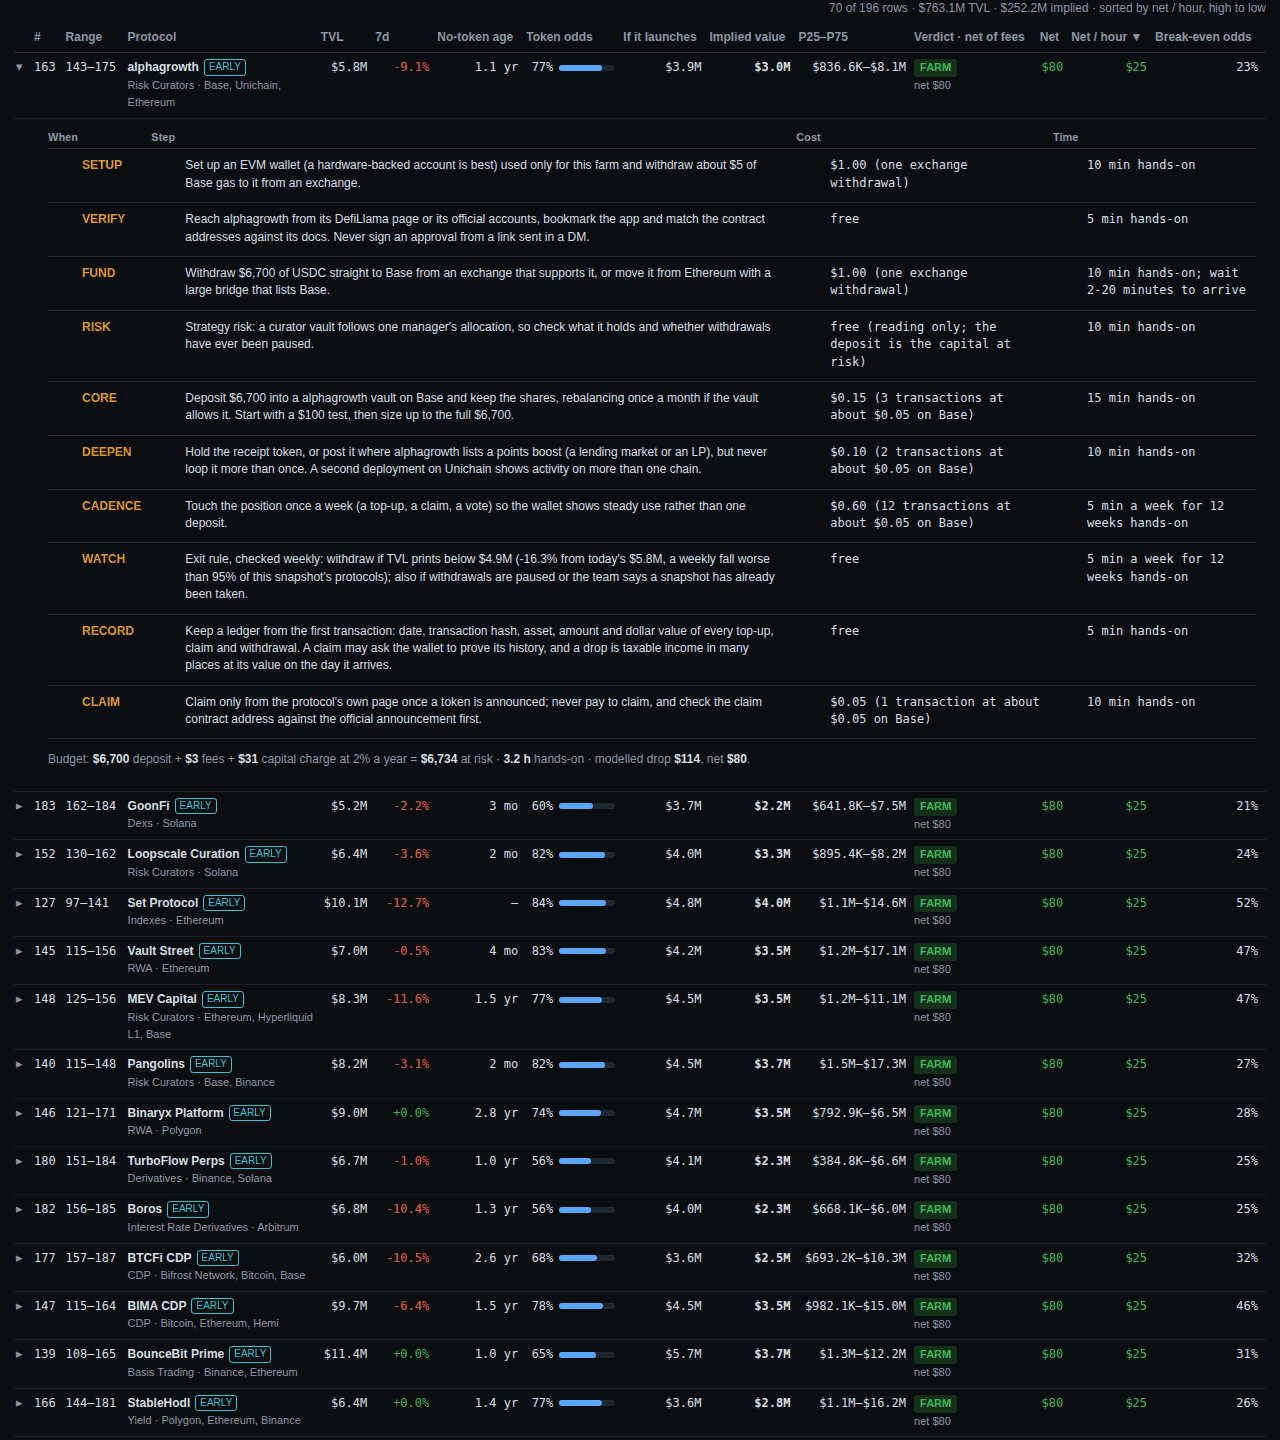
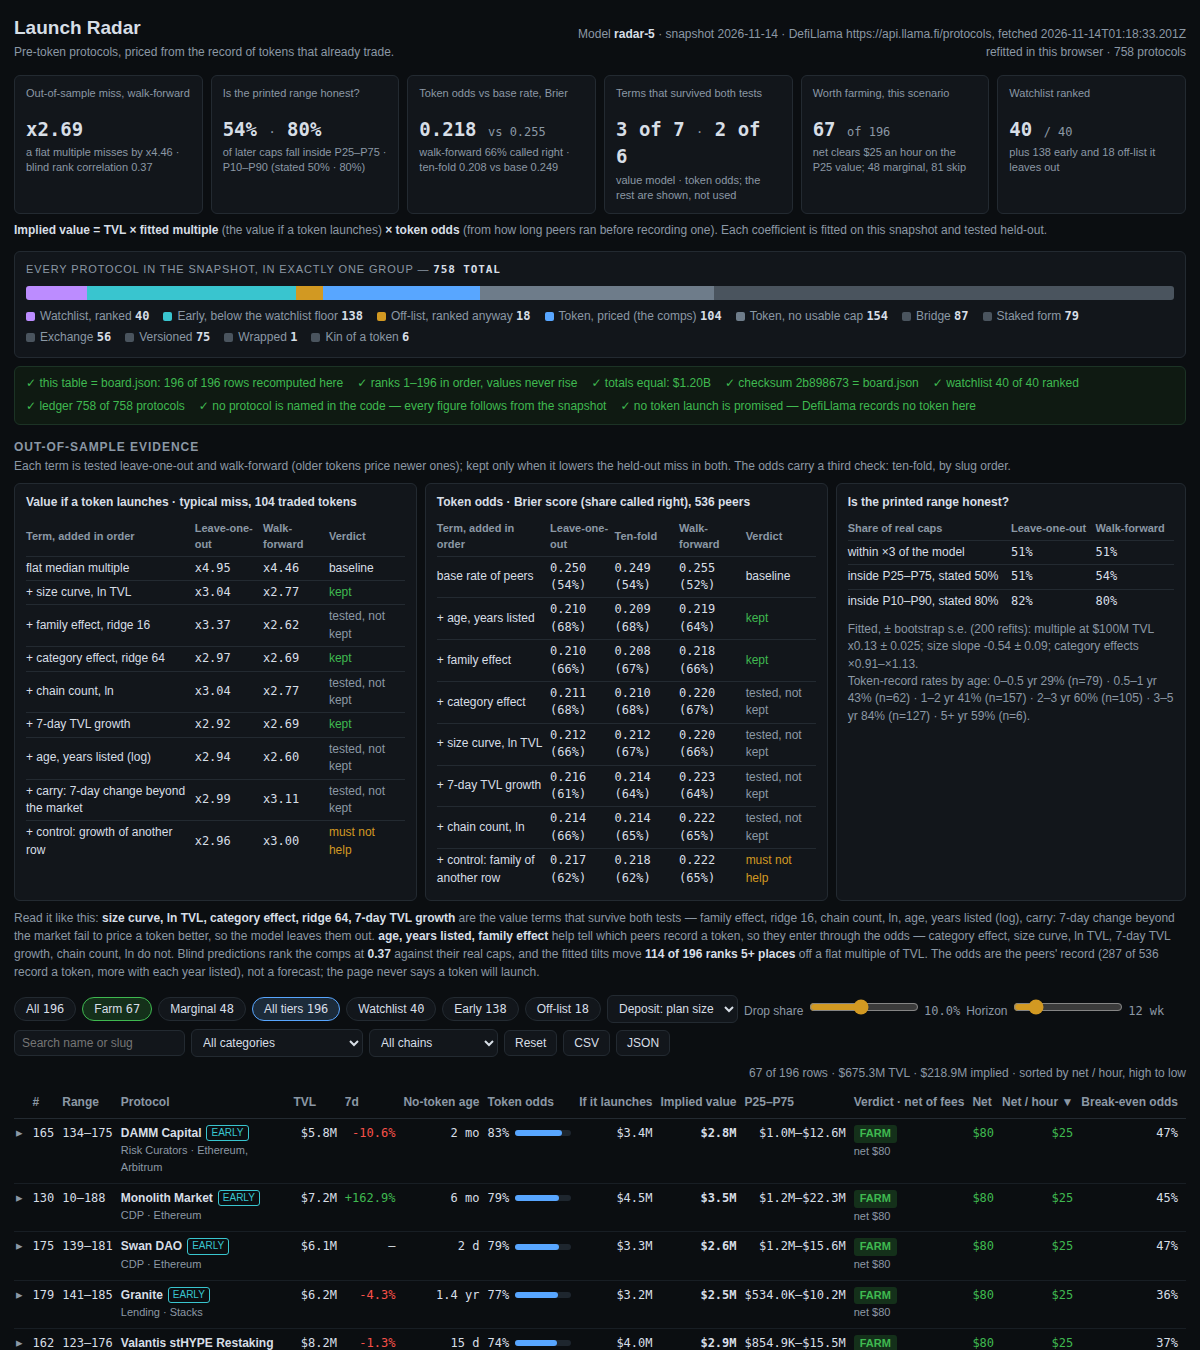
Launch Radar v5
Value model fitted on 104 priced comps (bridge and exchange tokens left out, staked and versioned kept), every term tested leave-one-out AND walk-forward: size curve, category effect and 7-day growth survive (LOO miss x2.92, WF x2.69). Token odds from 536 peers' record (Brier WF 0.218 vs base 0.255, ten-fold 0.208); the category odds term fails both tests, so it stays out. Bootstrap intervals (200 refits) with an honest coverage table. 196 rows account for all 758 snapshot protocols in exactly one group. Dashboard refits the model in the browser and checks board.json (integrity strip: 196/196 rows, checksum 2b898673). 67 FARM / 48 MARGINAL / 81 SKIP. Screenshots: 3 RGB views at 1200x1350, dossier 1,533,436 bytes (under the 1.5 MiB server gate).

diff --git a/dashboard/0-model.js b/dashboard/0-model.js
@@ -1,4 +1,4 @@
-// Launch Radar's model (radar-4), shared by main.ts and the dashboard page.
+// Launch Radar's model (radar-5), shared by main.ts and the dashboard page.
 //
 // One file, no imports, no network: main.ts runs it in Node to write board.json, and the page runs
 // the same code in the browser over the same snapshot, so the page refits the model itself and checks
@@ -12,7 +12,7 @@
 
 'use strict';
 
-var MODEL_VERSION = 'radar-4';
+var MODEL_VERSION = 'radar-5';
 var BOOTSTRAPS = 200;
 var SEED = 20261114;
 var TBILL_RATE = 0.04; // the T-bill benchmark, 4% a year, shown against every verdict
@@ -29,14 +29,18 @@ var WF_MIN_TRAIN = 20; // a walk-forward prediction needs 20 earlier protocols t
 var RATIO_CAP = 50; // a priced comp's market cap is at most 50x its TVL; above that is a data quirk
 var DEP_MIN = 1000, DEP_MAX = 25000; // the plan deposit's bounds: the smallest that pays, capped
 
-// The exclusion taxonomy, applied to EVERY protocol first, in this order, so the ledger accounts
-// for all 758 in exactly one group: a bridge is a bridge whether or not it records a token.
-// Bridge covers the Bridge and Canonical Bridge categories; staked form the three liquid-staking
+// The exclusion taxonomy, for the ledger: every protocol lands in exactly one group, so the
+// ledger accounts for all 758. The priced comps are pulled out first (a staked or versioned
+// token that prices the fit is a comp, not an exclusion); the taxonomy then applies to the rest. Bridge
+// covers the Bridge and Canonical Bridge categories; staked form the three liquid-staking
 // categories; exchange the CEX category; versioned a name ending in a version (V1, v2, 2.0, II);
 // wrapped a stablecoin wrapper or a wrapped name; kin a pre-token protocol sharing its first word
 // (4+ letters) with a protocol that records a token — the same project's family. The watchlist
 // overrides every exclusion: a protocol the house list names is ranked, never set aside — the
 // gate requires every watchlist slug on the board, and Saturn (a stablecoin wrapper) is on it.
+// The FITS use a narrower rule: only bridge and exchange tokens are left out of the comps and
+// the peers — a bridge or exchange token prices the bridge or the exchange, not a launch —
+// while staked and versioned tokens stay in, because they still price a comparable launch.
 var VERSIONED = /\s(V\d+(\.\d+)?|v\d+(\.\d+)?|\d+\.\d+|II|III|IV)$/;
 var WRAPPED_NAME = /\bwrapped\b/i;
 var W_PREFIX = /^w[A-Z]/;
@@ -159,10 +163,12 @@ function exclusionReason(p, ctx) {
 }
 function isRankable(p, ctx) { return isPreToken(p) && exclusionReason(p, ctx) === null; }
 
-// Every protocol in exactly one group. Exclusions come first, so a versioned bridge with a token
-// is versioned-or-bridge, never a comp. The off-list tier is derived, not listed: a rankable
-// protocol above the floor that the watchlist does not name passes every stated rule, so the one
-// rule the snapshot cannot show — the parent check — is what left it out: its parent records a token.
+// Every protocol in exactly one group. The priced comps are pulled out first, so the priced
+// count is the comps the value fit runs on; the exclusion taxonomy then sorts the rest, token
+// or pre-token, and the token protocols it passes land in tokenNoCap. The off-list tier is
+// derived, not listed: a rankable protocol above the floor that the watchlist does not name
+// passes every stated rule, so the one rule the snapshot cannot show — the parent check — is
+// what left it out: its parent records a token.
 function partition(snapshot) {
   var ctx = kinContext(snapshot);
   var wl = ctx.watchlist;
@@ -170,12 +176,10 @@ function partition(snapshot) {
     out: { bridge: [], staked: [], exchange: [], versioned: [], wrapped: [], kin: [] } };
   snapshot.protocols.forEach(function (p) {
     if (wl[p.slug] && isPreToken(p)) { g.watchlist.push(p); return; }
+    if (isPricedComp(p, ctx)) { g.priced.push(p); return; }
     var reason = exclusionReason(p, ctx);
     if (reason) { g.out[reason].push(p); return; }
-    if (!isPreToken(p)) {
-      if (isPricedComp(p, ctx)) g.priced.push(p); else g.tokenNoCap.push(p);
-      return;
-    }
+    if (!isPreToken(p)) { g.tokenNoCap.push(p); return; }
     if (p.tvl_usd >= snapshot.floor_usd) g.offlist.push(p);
     else g.early.push(p);
   });
@@ -187,20 +191,28 @@ function tierOf(snapshot, p) {
   return 'early';
 }
 
-// A priced comp for the value fit: its token trades, the ratio is usable, and its category is one
-// the board ranks. No listing date is required: the fit and leave-one-out do not need one, and
-// walk-forward runs on the dated subset. Ratios above 50x are data quirks, not comps.
+// A priced comp for the value fit: its token trades and the ratio is usable. No listing date is
+// required: the fit and leave-one-out do not need one, and walk-forward runs on the dated subset.
+// Ratios above 50x are data quirks, not comps. Only bridge and exchange tokens are left out: a
+// bridge or exchange token prices the bridge or the exchange, not a launch. Staked and versioned
+// tokens stay in — they still price a comparable launch — and no wrapped or kin token in this
+// snapshot carries a usable ratio, so the rule covers them vacuously. (ctx is unused: the comps
+// do not follow the board's exclusion taxonomy.)
 function isPricedComp(p, ctx) {
   if (p.mcap_usd === null || p.tvl_usd <= 0) return false;
   var ratio = p.mcap_usd / p.tvl_usd;
   if (!isFinite(ratio) || ratio <= 0 || ratio > RATIO_CAP) return false;
-  return exclusionReason(p, ctx) === null;
+  if (p.category === 'Bridge' || p.category === 'Canonical Bridge' || p.category === 'CEX') return false;
+  return true;
 }
 function compsOf(snapshot) { var ctx = kinContext(snapshot); return snapshot.protocols.filter(function (p) { return isPricedComp(p, ctx); }); }
 // The odds peers: every protocol the token question applies to, with a listing date to age it by.
+// The same narrow rule as the comps: only bridge and exchange protocols are left out, so staked,
+// versioned, wrapped and kin protocols count as peers too.
 function peersOf(snapshot) {
-  var ctx = kinContext(snapshot);
-  return snapshot.protocols.filter(function (p) { return exclusionReason(p, ctx) === null && p.listed_at; });
+  return snapshot.protocols.filter(function (p) {
+    return p.listed_at && p.category !== 'Bridge' && p.category !== 'Canonical Bridge' && p.category !== 'CEX';
+  });
 }
 
 // --- the value model ------------------------------------------------------
@@ -365,7 +377,7 @@ function coverageOf(preds, actuals, relLo, relHi, misses) {
 // Terms refine the peer subset; each is kept only when it lowers the Brier score in BOTH tests.
 // Rates are shrunk toward their parent rate with 8 pseudo-observations.
 
-var ODDS_TERMS = ['age', 'family', 'size', 'growth', 'chains'];
+var ODDS_TERMS = ['age', 'family', 'category', 'size', 'growth', 'chains'];
 
 function sizeTerciles(peers) {
   var xs = peers.map(function (p) { return Math.log(p.tvl_usd); }).sort(function (a, b) { return a - b; });
@@ -378,34 +390,52 @@ function sizeBandOf(p, terciles) {
 function growthSignOf(p) { return growthOf(p) > 0 ? 1 : 0; }
 function chainsBandOf(p) { return p.chains.length > 1 ? 1 : 0; }
 
+// The hierarchy levels below the age band, in order: each refines the peer subset, and each
+// rate is shrunk toward the level above it. 'category' sits between family and size: a finer
+// split of its family. Only the levels in terms are built, so a term not kept changes nothing.
+var ODDS_LEVELS = ['family', 'category', 'size', 'growth', 'chains'];
+function levelPart(level, p, terciles) {
+  if (level === 'family') return familyOf(p.category);
+  if (level === 'category') return p.category || 'Other';
+  if (level === 'size') return sizeBandOf(p, terciles);
+  if (level === 'growth') return growthSignOf(p);
+  return chainsBandOf(p);
+}
+
 function fitOdds(peers, asOf, terms) {
   var terciles = sizeTerciles(peers);
-  var n = peers.length;
   var has = peers.map(function (p) { return isPreToken(p) ? 0 : 1; });
   var baseRate = mean(has);
-  // Count successes and totals at each level of the hierarchy, keyed by band and subset.
-  var band = {}, fam = {}, famSize = {}, famSizeGrowth = {}, famSizeGrowthChains = {};
-  // The old cohort (peers that ran 3+ years) at each level: the eventual rate for peers like this.
-  // The single oldest band holds 5 peers, too few to anchor the odds, so the old cohort is pooled.
-  var old = { s: 0, n: 0 }, oldFam = {}, oldFamSize = {}, oldFamSizeGrowth = {}, oldFamSizeGrowthChains = {};
+  var levels = ODDS_LEVELS.filter(function (l) { return terms.indexOf(l) >= 0; });
+  // Count successes and totals at each level of the hierarchy: tables[k] is keyed by the band
+  // plus the first k levels' parts, oldTables[k] the same without the band, for the old cohort
+  // (peers that ran 3+ years) — the single oldest band holds 5 peers, too few to anchor the
+  // odds, so the old cohort is pooled. oldTables[0] is keyed '' and holds the pooled old count.
+  var tables = [], oldTables = [];
+  for (var k = 0; k <= levels.length; k++) { tables.push({}); oldTables.push({}); }
   function bump(table, key, y) {
     var c = table[key] || (table[key] = { s: 0, n: 0 });
     c.s += y; c.n += 1;
   }
+  function partsFor(p, familyOverride) {
+    var parts = [];
+    for (var k = 0; k < levels.length; k++) {
+      var part = levelPart(levels[k], p, terciles);
+      if (levels[k] === 'family' && familyOverride !== undefined) part = familyOverride;
+      parts.push(part);
+    }
+    return parts;
+  }
   peers.forEach(function (p, i) {
     var b = bandOf(ageYears(asOf, p.listed_at) || 0);
-    var f = familyOf(p.category), sz = sizeBandOf(p, terciles), g = growthSignOf(p), c = chainsBandOf(p);
-    bump(band, b, has[i]);
-    bump(fam, b + '|' + f, has[i]);
-    bump(famSize, b + '|' + f + '|' + sz, has[i]);
-    bump(famSizeGrowth, b + '|' + f + '|' + sz + '|' + g, has[i]);
-    bump(famSizeGrowthChains, b + '|' + f + '|' + sz + '|' + g + '|' + c, has[i]);
+    var parts = partsFor(p);
+    var key = String(b);
+    bump(tables[0], key, has[i]);
+    for (var k = 0; k < parts.length; k++) { key += '|' + parts[k]; bump(tables[k + 1], key, has[i]); }
     if ((ageYears(asOf, p.listed_at) || 0) >= 3) {
-      old.s += has[i]; old.n += 1;
-      bump(oldFam, f, has[i]);
-      bump(oldFamSize, f + '|' + sz, has[i]);
-      bump(oldFamSizeGrowth, f + '|' + sz + '|' + g, has[i]);
-      bump(oldFamSizeGrowthChains, f + '|' + sz + '|' + g + '|' + c, has[i]);
+      bump(oldTables[0], '', has[i]);
+      var okey = '';
+      for (var k = 0; k < parts.length; k++) { okey = okey === '' ? String(parts[k]) : okey + '|' + parts[k]; bump(oldTables[k + 1], okey, has[i]); }
     }
   });
   function shrunk(table, key, prior) {
@@ -415,30 +445,26 @@ function fitOdds(peers, asOf, terms) {
   }
   function rateAt(p, bandIdx, familyOverride) {
     var b = bandIdx === undefined ? bandOf(ageYears(asOf, p.listed_at) || 0) : bandIdx;
-    var f = familyOverride !== undefined ? familyOverride : familyOf(p.category);
     if (terms.indexOf('age') < 0) return baseRate;
-    var r = shrunk(band, b, baseRate);
-    if (terms.indexOf('family') >= 0) r = shrunk(fam, b + '|' + f, r);
-    if (terms.indexOf('size') >= 0) r = shrunk(famSize, b + '|' + f + '|' + sizeBandOf(p, terciles), r);
-    if (terms.indexOf('growth') >= 0) r = shrunk(famSizeGrowth, b + '|' + f + '|' + sizeBandOf(p, terciles) + '|' + growthSignOf(p), r);
-    if (terms.indexOf('chains') >= 0) r = shrunk(famSizeGrowthChains, b + '|' + f + '|' + sizeBandOf(p, terciles) + '|' + growthSignOf(p) + '|' + chainsBandOf(p), r);
+    var parts = partsFor(p, familyOverride);
+    var r = shrunk(tables[0], String(b), baseRate);
+    var key = String(b);
+    for (var k = 0; k < parts.length; k++) { key += '|' + parts[k]; r = shrunk(tables[k + 1], key, r); }
     return r;
   }
   // The overall rate per age band (no subset), for the evidence table's cohort curve.
   function bandRates() {
     var out = [];
-    for (var b = 0; b < AGE_BANDS.length - 1; b++) out.push(shrunk(band, b, baseRate));
+    for (var b = 0; b < AGE_BANDS.length - 1; b++) out.push(shrunk(tables[0], String(b), baseRate));
     return out;
   }
   // The eventual rate for peers like this one: the old cohort (3+ years) in its subset, shrunk
   // toward the overall old-cohort rate. This is the Rmax of the conditional odds.
   function rateOldest(p) {
-    var f = familyOf(p.category);
-    var r = (old.s + SHRINK_M * baseRate) / (old.n + SHRINK_M);
-    if (terms.indexOf('family') >= 0) r = shrunk(oldFam, f, r);
-    if (terms.indexOf('size') >= 0) r = shrunk(oldFamSize, f + '|' + sizeBandOf(p, terciles), r);
-    if (terms.indexOf('growth') >= 0) r = shrunk(oldFamSizeGrowth, f + '|' + sizeBandOf(p, terciles) + '|' + growthSignOf(p), r);
-    if (terms.indexOf('chains') >= 0) r = shrunk(oldFamSizeGrowthChains, f + '|' + sizeBandOf(p, terciles) + '|' + growthSignOf(p) + '|' + chainsBandOf(p), r);
+    var parts = partsFor(p);
+    var r = shrunk(oldTables[0], '', baseRate);
+    var key = '';
+    for (var k = 0; k < parts.length; k++) { key = key === '' ? String(parts[k]) : key + '|' + parts[k]; r = shrunk(oldTables[k + 1], key, r); }
     return r;
   }
   return { terciles: terciles, baseRate: baseRate, terms: terms.slice(), rateAt: rateAt, bandRates: bandRates, rateOldest: rateOldest };
@@ -523,7 +549,7 @@ function selectOddsTerms(peers, asOf) {
   return { kept: kept, rows: rows, loo: cur.loo.brier, ten: keptTen.brier, tenRight: keptTen.right, wf: cur.wf.brier, looRight: cur.loo.right, wfRight: cur.wf.right };
 }
 function oddsTermLabel(t) {
-  return { age: 'age, years listed', family: 'family effect', size: 'size curve, ln TVL',
+  return { age: 'age, years listed', family: 'family effect', category: 'category effect', size: 'size curve, ln TVL',
     growth: '7-day TVL growth', chains: 'chain count, ln' }[t] || t;
 }
 

diff --git a/dashboard/app.js b/dashboard/app.js
@@ -1,4 +1,4 @@
-/* Launch Radar (radar-4): refits the model in this browser over data.js and renders the board.
+/* Launch Radar (radar-5): refits the model in this browser over data.js and renders the board.
    Every number on the page is recomputed here from the snapshot; the integrity strip says how
    far the recomputation agrees with board.json. */
 (function () {
@@ -225,7 +225,7 @@ function auditHtml(s) {
   if (vm.terms.indexOf('chains') >= 0) html += ln('Chain count — coefficient ' + vm.chains.toFixed(2) + ' on ln(' + s.p.chains.length + ' chains)', 'x' + Math.exp(vm.chains * M.chainsLn(s.p)).toFixed(2));
   if (vm.terms.indexOf('carry') >= 0) html += ln('Carry — coefficient ' + vm.carry.toFixed(2) + ' on ' + pct(M.carryOf(s.p, vm.marketGrowth), 1) + ' of 7-day change beyond the market\'s ' + pct(vm.marketGrowth, 1), 'x' + Math.exp(vm.carry * M.carryOf(s.p, vm.marketGrowth)).toFixed(2));
   html += ln('= Value if a token launches — TVL × effective multiple', usdF(s.valueIfLaunches));
-  var oddsShort = { 'age, years listed': 'age', 'family effect': 'family', 'size curve, ln TVL': 'size', '7-day TVL growth': '7-day growth', 'chain count, ln': 'chain count' };
+  var oddsShort = { 'age, years listed': 'age', 'family effect': 'family', 'category effect': 'category', 'size curve, ln TVL': 'size', '7-day TVL growth': '7-day growth', 'chain count, ln': 'chain count' };
   var oddsKept = R.evidence.odds.rows.filter(function (r) { return r.verdict === 'kept'; }).map(function (r) { return oddsShort[r.name.replace(/^\+ /, '')] || r.name.replace(/^\+ /, ''); });
   var oddsBy = oddsKept.length ? 'peers of its ' + (oddsKept.length > 1 ? oddsKept.slice(0, -1).join(', ') + ' and ' + oddsKept[oddsKept.length - 1] : oddsKept[0]) : 'peers';
   html += ln('Token odds — ' + oddsBy + ': ' + pct(s.rateByAge) + ' record a token by its age (' + ageStr(s.ageDays) + '), ' + pct(s.rateOldest) + ' by the 3yr+ cohort\'s, so (' + pct(s.rateOldest) + ' − ' + pct(s.rateByAge) + ') ÷ (100% − ' + pct(s.rateByAge) + ') = ' + pct(s.odds) + '; Brier ' + R.evidence.odds.wf.toFixed(3) + ' vs base ' + R.evidence.odds.rows[0].wf.brier.toFixed(3), 'x' + s.odds.toFixed(2));
@@ -356,7 +356,7 @@ function topHtml() {
   groups.forEach(function (g) { bar += '<i style="width:' + (g[1] / ac.total * 100).toFixed(2) + '%;background:' + g[2] + '"></i>'; leg += '<span><i class="dot" style="background:' + g[2] + '"></i>' + g[0] + ' <b class="num">' + g[1] + '</b></span>'; });
   var chk = function (ok, t) { return '<span class="' + (ok ? '' : 'bad') + '">' + (ok ? '✓' : '✗') + ' ' + t + '</span>'; };
   return '<div class="head"><div><h1>Launch Radar</h1><p class="sub">Pre-token protocols, priced from the record of tokens that already trade.</p></div>'
-    + '<div class="meta">Model <b>radar-4</b> · snapshot ' + D.as_of + ' · ' + D.source + '<br>refitted in this browser · ' + D.protocols.length + ' protocols</div></div>' + kpi
+    + '<div class="meta">Model <b>radar-5</b> · snapshot ' + D.as_of + ' · ' + D.source + '<br>refitted in this browser · ' + D.protocols.length + ' protocols</div></div>' + kpi
     + '<p class="formula"><b>Implied value = TVL × fitted multiple</b> (the value if a token launches) <b>× token odds</b> (from how long peers ran before recording one). Each coefficient is fitted on this snapshot and tested held-out.</p>'
     + '<div class="acct"><div class="t">Every protocol in the snapshot, in exactly one group — <b class="num">' + ac.total + ' total</b></div><div class="bar">' + bar + '</div><div class="legend">' + leg + '</div></div>'
     + '<div class="integ">' + chk(integ.ok === integ.n, 'this table = board.json: ' + integ.ok + ' of ' + integ.n + ' rows recomputed here')
@@ -368,7 +368,7 @@ function topHtml() {
 }
 function footHtml() {
   return '<footer class="foot">Data: the sealed DefiLlama snapshot of ' + D.as_of + ' (' + D.protocols.length + ' protocols, floor ' + usd(D.floor_usd) + '). '
-    + 'Model: radar-4 — fitted on ' + R.evidence.value.n + ' traded tokens, tested leave-one-out and walk-forward; the token odds are the peers\' record. '
+    + 'Model: radar-5 — fitted on ' + R.evidence.value.n + ' traded tokens, tested leave-one-out and walk-forward; the token odds are the peers\' record. '
     + 'Stated assumptions: gas $3.00 Ethereum (blended), $0.01 Solana, $0.05 other L2s, $1.00 elsewhere; T-bill 4% a year as a benchmark; capital charge 2% a year; drop share 10%; the farm is sized on the P25 value and the deposit is the smallest, $1,000–$25,000, that clears $25 an hour; off-list rows carry a stated ×0.50 parent haircut, not a fitted term. '
     + 'Implied values are this model\'s claim, never make.fun\'s. A protocol records no token on DefiLlama — that is not proof it has none.</footer>';
 }

diff --git a/main.ts b/main.ts
@@ -1,7 +1,7 @@
 // A token-radar-01 entry (Node 22, standard library only).
 //
 // The program reads the sealed snapshot from /input/snapshot.json (or --input <file|dir>), scores every
-// pre-token protocol with the fitted model in dashboard/0-model.js (radar-4), writes the ranked board to
+// pre-token protocol with the fitted model in dashboard/0-model.js (radar-5), writes the ranked board to
 // /output/board.json, and copies this repository's dashboard/ and screenshots/ to /output. Last, it
 // writes /output/dossier.json, the summary the judge reads, with the vendored make.fun library.
 //
@@ -26,6 +26,9 @@
 //   - radar-4 widens the priced comps (no listing date required, ratio cap 50x), adds a carry
 //     term and ten-fold odds validation, and reports the rank correlation and how far the fitted
 //     tilts move ranks off a flat multiple of TVL.
+//   - radar-5 widens the priced comps to 104 and the odds peers to 536 on one rule (bridge and
+//     exchange tokens left out, staked and versioned kept), keeps a third value term (7-day
+//     growth), and tests a category odds term — it fails both blind tests, so it stays out.
 //
 // Outside the grader's container, MAKEFUN_OUTPUT_DIR stands in for /output:
 //   mkdir -p out && MAKEFUN_OUTPUT_DIR=out node main.ts --input ../input/snapshot.json

diff --git a/lib/model.ts b/lib/model.ts
@@ -1,4 +1,4 @@
-// The token radar's Node side (radar-4): the snapshot in, the ranked board out.
+// The token radar's Node side (radar-5): the snapshot in, the ranked board out.
 //
 // The model itself lives in dashboard/0-model.js, one file shared with the page, so the program
 // that writes board.json and the page that refits it run the same code. This file is the Node
